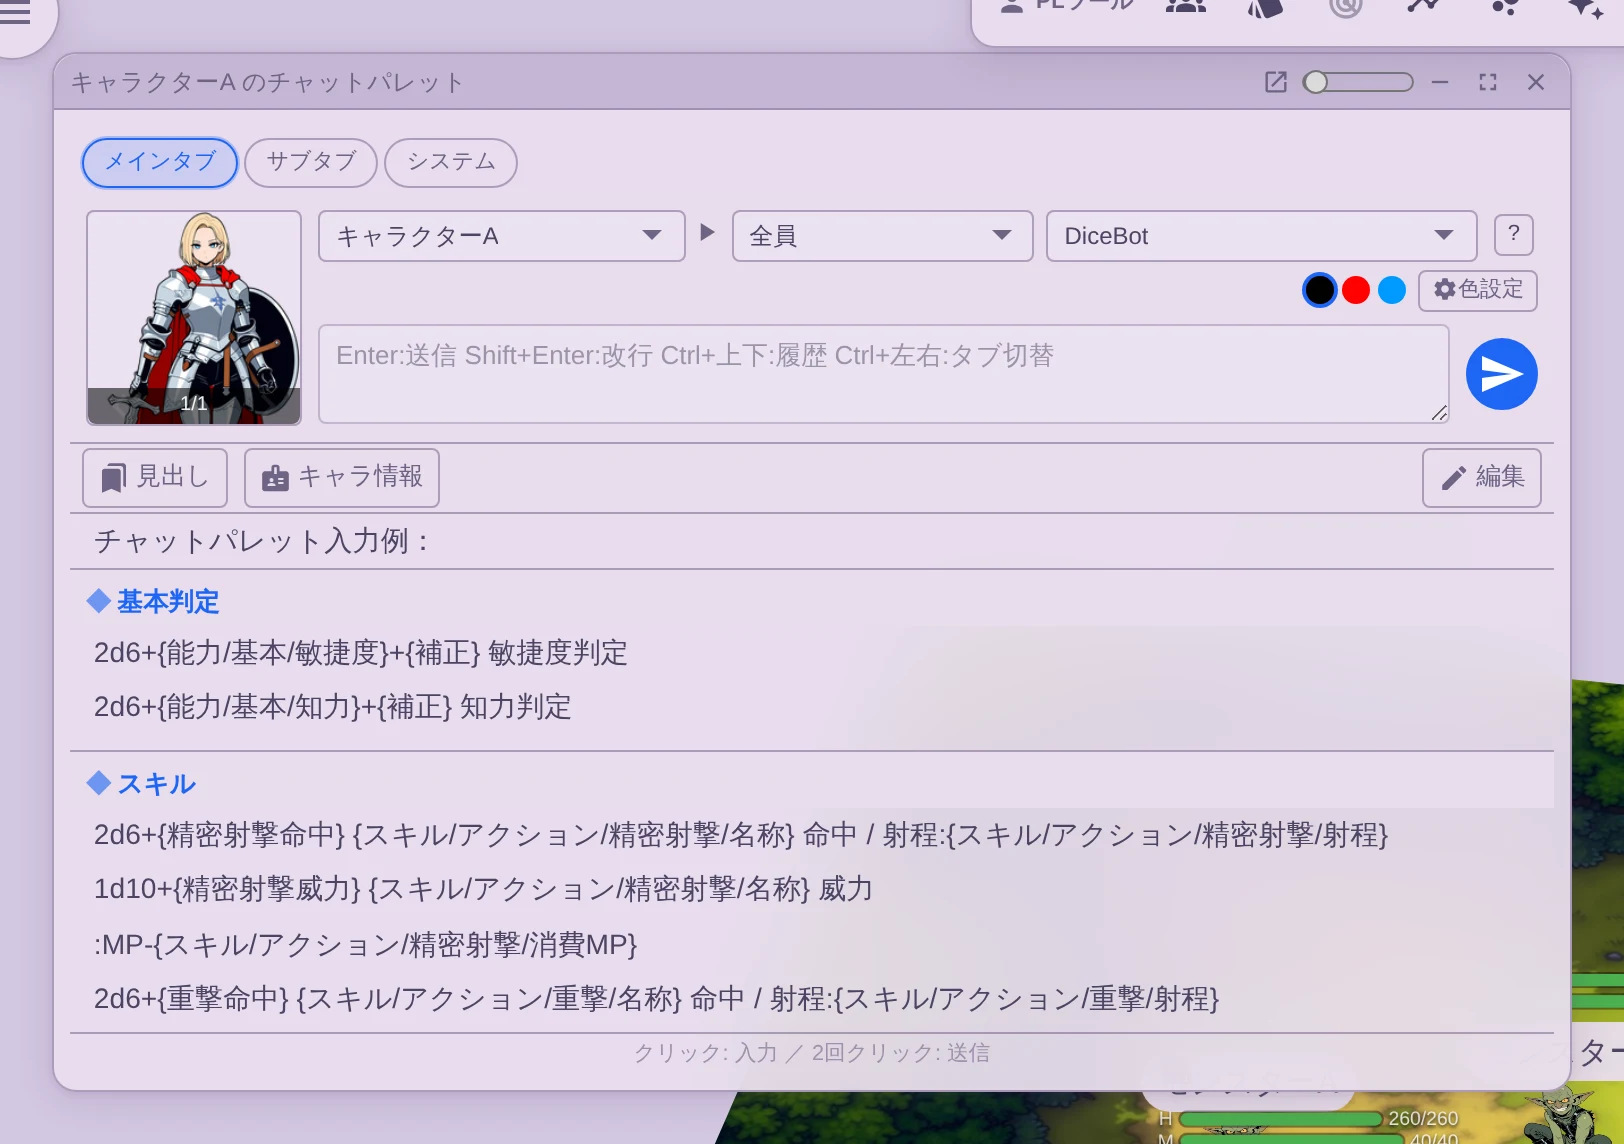
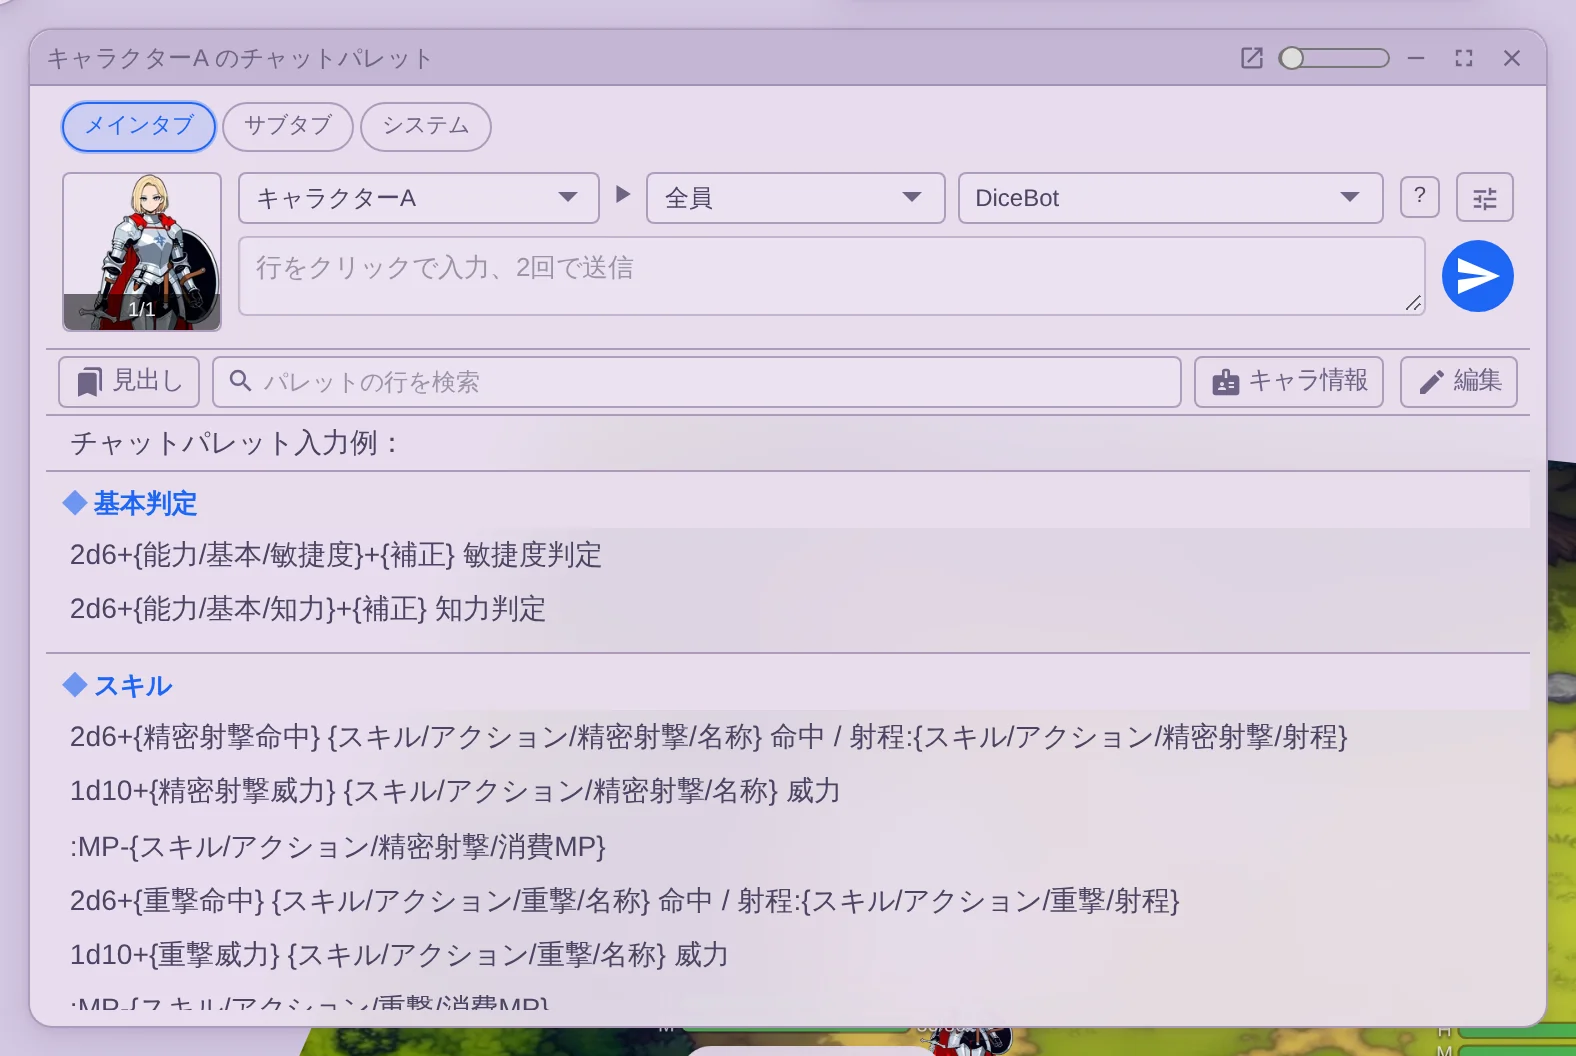
docs(website): describe the reworked chat palette
Retake its screenshot and say how the tabs, the folded colours, the
portrait strip, the search box and the headings work now. The page no
longer says the headings button inserts a heading; it jumps to one.

Changed region(s): [[0.0, 0.0, 1.0, 1.0]]

diff --git a/website/manual/chat-palette.md b/website/manual/chat-palette.md
@@ -2,18 +2,45 @@
 
 キャラクターごとに、よく使う発言や判定コマンドを並べておける入力補助です。
 
-<Shot src="chat-palette" alt="チャットパレット。判定やスキルのコマンドが行ごとに並んでいる" width="560" caption="行をクリックすればそのまま送信できます" />
+<Shot src="chat-palette" alt="チャットパレット。上からタブ、立ち絵と入力欄、検索欄とボタンの行が並び、その下に判定やスキルのコマンドが行ごとに続いている" width="560" caption="行をクリックすると入力欄に入り、もう一度クリックすると送信します" />
 
 ## 開く
 
 キャラクターコマを**右クリック** → **「チャットパレットを表示」** で開きます。
-パレットには専用のチャット入力欄があり、行をクリックするとその内容を送信できます。
+
+## 行をクリックして送る
+
+パレットの行を**クリック**すると、その内容が入力欄に入ります。修正値を書き足してから Enter で送れます。
+書き足すものがなければ、同じ行をすぐに**もう一度クリック**するだけで送信されます。タッチ操作ではタップと 2 回タップです。
+
+行を**右クリック**して **「ホットバーに入れる」** を選ぶと、パレットを開かなくても[ホットバー](/manual/hotbar)から送れます。
+
+どのタブに送るかは、いちばん上のタブで選びます。タブの上でマウスホイールを回すと、チャットウィンドウと同じく
+隣のタブへ移ります。並ぶのは自分のロールで読めるタブだけで、発言できないタブを選ぶと入力欄は閲覧のみに
+なります。
+
+発言の色は、入力欄の右上にある調整ボタンの中にしまってあります。押すと色の丸と **色設定** が出ます。
+[卓上ディスプレイ](/manual/tabletop#tabletop-display)で外周ティッカーを使っているときは、ティッカーへ流す
+切り替えも同じ場所にあります。
+
+立ち絵を何枚も登録したキャラクターは、立ち絵の下の帯で表情を切り替えられます。左右の矢印で 1 枚ずつ送り、
+名前を押すと一覧から選べます。
+
+## 目当ての行を探す
+
+入力欄の下のボタンの行には、目当ての行を探す道具が 2 つあります。
+
+- **検索欄** — 言葉を打つと、それを含む行が検索欄のすぐ下に並びます。上下キーで選んで Enter を押すと入力欄に入り、Esc で検索を消します
+- **見出し** — 見出しの一覧から、その位置まで一覧を送ります
+
+パネルの幅を狭めると、この行のボタンは文字が消えてアイコンだけになります。
 
 ## 編集する
 
-- 鉛筆（edit）アイコンで**編集モード**に切り替えると「編集中」と表示され、コマンド一覧を直接書き換えられます
-- **見出し** ボタンで見出し行を挿入
-- **キャラ情報** ボタンで、そのキャラのデータを参照するビューに切り替え（**パレットに戻る**で戻る）
+**編集** を押すと「編集中」になり、パレットの中身をそのまま書き換えられます。書き終えたら **確定** を押します。
+1 行が 1 つの発言です。`◆基本判定` や `//---基本判定` のように書いた行は見出しになり、見出しの一覧に載ります。
+
+**キャラ情報** を押すと、そのキャラクターのデータを読むだけの表示に切り替わります。**パレットに戻る** で戻ります。
 
 登録したコマンドはキャラクターに紐づいて保存され、ダイスボットのコマンド（例: `2d6`）もそのまま使えます。
 ダイスの記法は [ダイスボット](/manual/dicebot) を参照してください。
